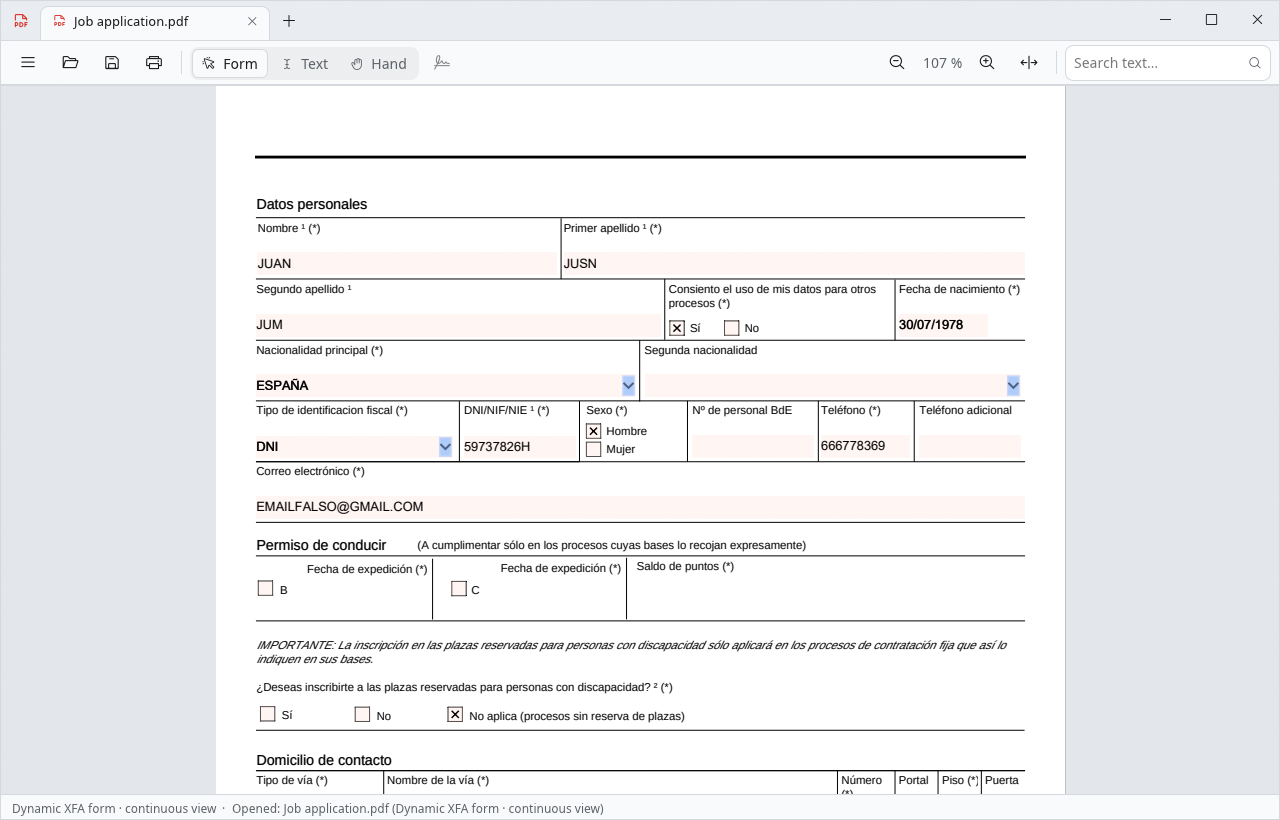
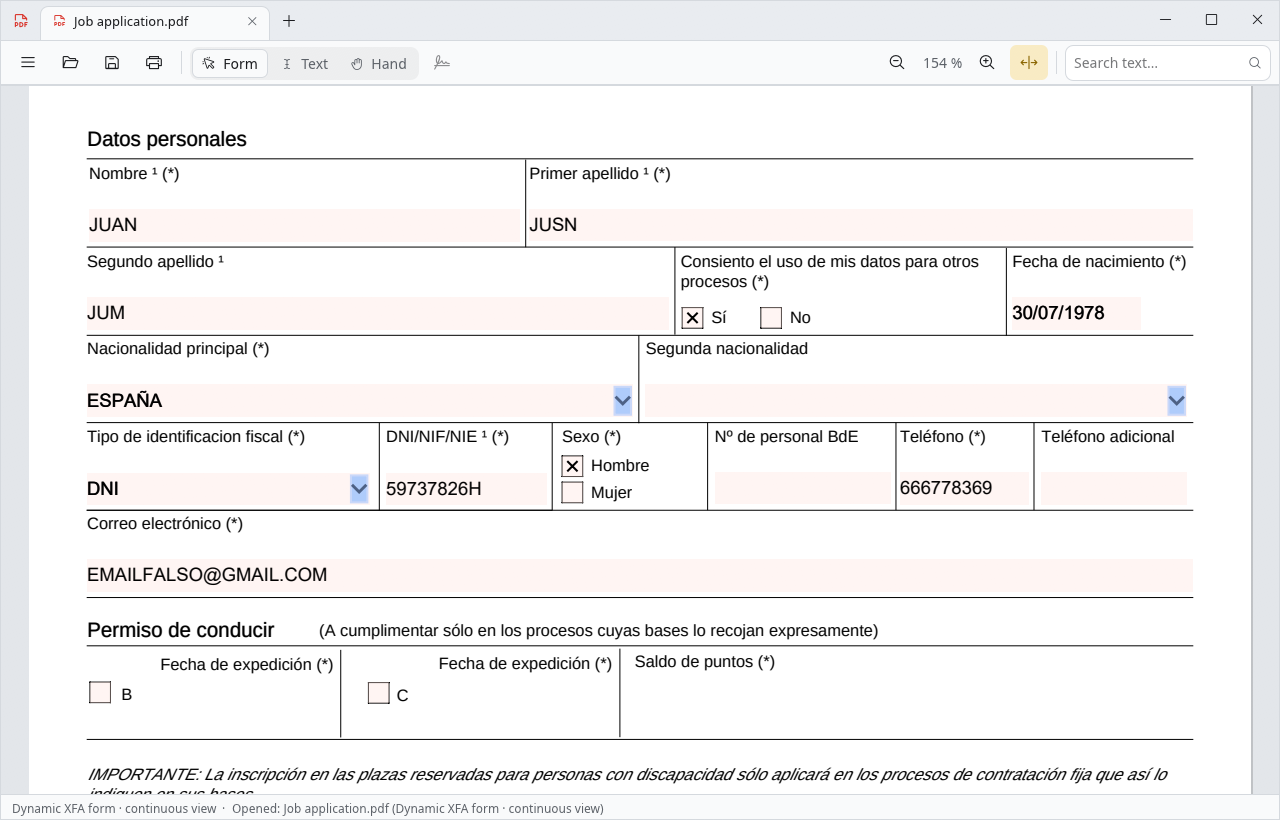
Capturas con el acento amarillo y volver a seleccionar una firma puesta (#28)
- README: la captura principal (ajustar al ancho activo) y la de
  Windows 11 (formulario I-9 con datos inventados y una firma
  seleccionada) muestran el acento nuevo.
- Escritorio: pulsar sobre una firma ya puesta la vuelve a seleccionar
  para moverla, cambiar su tamaño o quitarla. Antes, tras pulsar fuera,
  no había forma de seleccionarla otra vez.

diff --git a/crates/desktop/src/viewer/sign.rs b/crates/desktop/src/viewer/sign.rs
@@ -131,6 +131,19 @@ impl DocView {
             return true;
         }
 
+        if self.sig_selected.is_none() {
+            // Pulsar sobre una firma puesta la selecciona (y ya se puede
+            // arrastrar); la de encima si se tapan.
+            let press = events.iter().find_map(|e| match e {
+                Event::PointerButton { pos, button: PointerButton::Primary, pressed: true, .. } if area.contains(*pos) => Some(*pos),
+                _ => None,
+            });
+            let Some(pos) = press else { return false };
+            let hit = self.doc.placed_signatures().iter().rposition(|p| self.sig_screen_rect(p.page, p.rect).is_some_and(|r| r.contains(pos)));
+            let Some(i) = hit else { return false };
+            self.sig_selected = Some(i);
+            ctx.request_repaint();
+        }
         let Some(i) = self.sig_selected else { return false };
         let Some(placed) = self.doc.placed_signatures().get(i).cloned() else {
             self.sig_selected = None;

diff --git a/README.md b/README.md
@@ -47,9 +47,9 @@ stay in the form's own language.
 |---|---|
 | ![Create signature dialog: name in three handwriting styles](assets/screenshots/desktop-create-signature.png) | ![A handwritten signature placed on Form I-9, dark theme](assets/screenshots/desktop-dark-signature.png) |
 
-**Windows 11**
+**Windows 11, filling in and signing a form**
 
-![Form PDF Reader on Windows 11 with a dynamic XFA form](assets/screenshots/windows.jpg)
+![Form PDF Reader on Windows 11: Form I-9 filled in with made-up data and signed](assets/screenshots/windows.jpg)
 
 **Android**
 
